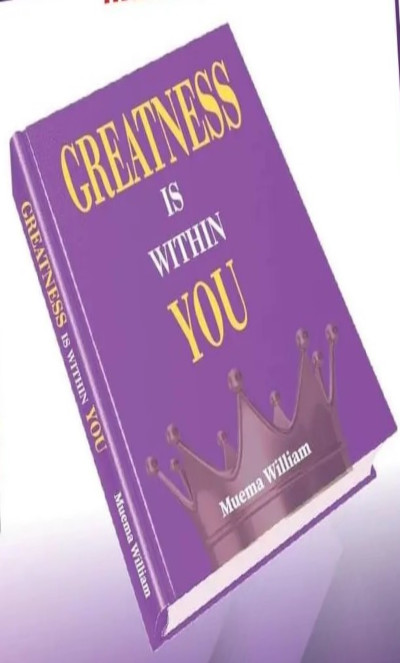
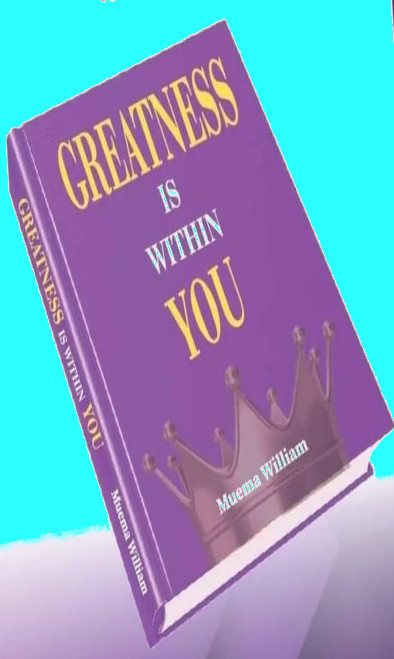
updated changes

diff --git a/src/pages/Gallery.jsx b/src/pages/Gallery.jsx
@@ -1,0 +1,128 @@
+const Gallery = () => {
+    return (
+        <div>
+                  <h1 class="emailTitle">Photos</h1> 
+        <div>
+            <div className='homeAside2'>
+            <figure className='homeImgFigure'>
+                <img 
+                src={`../images/img1.jpg`}
+                alt='home image'
+                className="homeImg"
+            />
+            </figure>
+            </div>
+            <div className='homeAside2 videoHome'>
+            <figure className='homeImgFigure videoFig'>
+                <img 
+                src={`../images/video.png`}
+                alt='home image'
+                className="homeImg videoImg"
+            />
+            </figure>
+            </div>   
+       </div>
+       <div className='row midHome'>
+       <div className='homeAside3'>
+            <figure className='homeImgFigure1'>
+                <img 
+                src={`../images/midHomeImg.png`}
+                alt='home image'
+                className="homeImg1"
+            />
+            </figure>
+            <figure className='homeImgFigure1'>
+                <img 
+                src={`../images/midHomeCopy.png`}
+                alt='home image'
+                className="homeImg1"
+            />
+            </figure>
+            </div>
+            <div className='homeAside4'>
+            <figure className='homeImgFigure2'>
+                <img 
+                src={`../images/img2.jpg`}
+                alt='home image'
+                className="homeImg2"
+            />
+            </figure>
+            </div>  
+       </div>
+       <div>
+            <div className='homeAside2'>
+            <figure className='homeImgFigure'>
+                <img 
+                src={`../images/img3.jpg`}
+                alt='home image'
+                className="homeImg"
+            />
+            </figure>
+            </div>
+            <div className='homeAside2'>
+            <figure className='homeImgFigure'>
+                <img 
+                src={`../images/img4.jpg`}
+                alt='home image'
+                className="homeImg"
+            />
+            </figure>
+            </div>   
+       </div>
+       <div className='homeAside4'>
+            <figure className='homeImgFigure2'>
+                <img 
+                src={`../images/img5.jpg`}
+                alt='home image'
+                className="homeImg2"
+            />
+            </figure>
+            </div>
+            <div className='homeAside3'>
+            <figure className='homeImgFigure1'>
+                <img 
+                src={`../images/midHomeImg.png`}
+                alt='home image'
+                className="homeImg1"
+            />
+            </figure>
+            <figure className='homeImgFigure1'>
+                <img 
+                src={`../images/img6.jpg`}
+                alt='home image'
+                className="homeImg1"
+            />
+            </figure>
+            </div>
+            <div className='row midHome'>
+       <div className='homeAside3'>
+            <figure className='homeImgFigure1'>
+                <img 
+                src={`../images/midHomeImg.png`}
+                alt='home image'
+                className="homeImg1"
+            />
+            </figure>
+            <figure className='homeImgFigure1'>
+                <img 
+                src={`../images/midHomeCopy.png`}
+                alt='home image'
+                className="homeImg1"
+            />
+            </figure>
+            </div>
+            <div className='homeAside4'>
+            <figure className='homeImgFigure2'>
+                <img 
+                src={`../images/img7.jpg`}
+                alt='home image'
+                className="homeImg2"
+            />
+            </figure>
+            </div>  
+       </div>
+     </div>
+    )
+}
+
+export default Gallery;

diff --git a/src/index.css b/src/index.css
@@ -192,9 +192,9 @@ p.share, p.related, p.topic1 {
 }
 .twitter, .facebook, .email {
   display: inline;
-  width: 5%;
-  height: 5%;
-  margin: 5% 0% 0% 5%;
+  width: 7%;
+  height: 7%;
+  margin: 5% 3% 3% 7%;
   padding: 0% 0% 0% 0%;
 }
 .mainContent {
@@ -366,7 +366,6 @@ img {
   height: 100%;
   margin: 2% 0% 0% 5%;
   padding: 2% 2% 3% 2%;
-  border: solid silver 5px;
   border-radius: 10px;
 }
 .cell {
@@ -412,11 +411,14 @@ img {
   width: 68%;
 }
 .send {
-  width: 50%;
-  font-size: 130%;
+  width: 100%;
+  font-size: 180%;
   font-weight: bold;
   margin: 3% 0% 0% 0%;
+  padding: 2% 2% 2% 2%;
   border-radius: 7px;
+  color: black;
+  background-color: silver;
   border: solid silver 5px;
 }
 .gridH {
@@ -596,10 +598,11 @@ img {
 }
 .homeImgFigure1, .homeImgFigure2 {
   width: 100%;
-  margin: 0% 0% 0% 0%;
+  margin: 3% 0% 0% 0%;
   padding: 0% 0% 0% 0%;
   background-color: gold;
   border-radius: 10px;
+  height: 42%;
 }
 .homeImg1, .homeImg2 {
   width: 100%;
@@ -607,7 +610,7 @@ img {
   padding: 0% 0% 0% 0%;
 }
 .homeImg1 {
-  padding: 20px;
+  padding: 5px;
 
 }
 .subscribeTitle {
@@ -915,9 +918,9 @@ img {
   }
   .twitter, .facebook, .email {
     display: inline;
-    width: 5%;
-    height: 5%;
-    margin: 5% 5% 0% 5%;
+    width: 7%;
+    height: 7%;
+    margin: 5% 3% 3% 7%;
     padding: 0% 0% 0% 0%;
   }
   .mainContent {
@@ -1100,7 +1103,6 @@ img {
     position: relative;
     left: 15%;
     padding: 2% 2% 3% 2%;
-    border: solid silver 5px;
     border-radius: 10px;
   }
   .sectionD {
@@ -1156,13 +1158,16 @@ img {
     width: 68%;
   }
   .send {
-    width: 50%;
-    font-size: 130%;
+    width: 100%;
+    font-size: 180%;
     font-weight: bold;
     margin: 3% 0% 0% 0%;
+    padding: 2% 2% 2% 2%;
     border-radius: 7px;
-    border: solid silver 5px;
-  }
+    color: black;
+    background-color: silver;
+    border: solid silver 5px; 
+  }  
   .gridH {
     font-size: 200%;
     font-weight: bold;
@@ -1297,6 +1302,9 @@ img {
     margin: 0% 0% 0% 0%;
     padding: 0% 0% 0% 5%;
   }
+  .videoHome {
+    background-color: cyan;
+  }
   .homeImgFigure {
     width: 100%;
     height: 100%;
@@ -1311,6 +1319,7 @@ img {
     height: 100%;
     margin: 0% 0% 0% 0%;
     padding: 0% 0% 0% 0%;
+    content: url('C:/Users/hp/blog-react/public/images/altHomeImg.jpg');
   }
   .homeAside1, .homeAside2 {
     float: left;
@@ -1347,11 +1356,11 @@ img {
   }
   .homeImgFigure1, .homeImgFigure2 {
     width: 100%;
-    height: 50%;
-    margin: 0% 0% 0% 0%;
+    margin: 3% 0% 0% 0%;
     padding: 0% 0% 0% 0%;
     background-color: gold;
     border-radius: 10px;
+    height: 100%;
   }
   .homeImg1, .homeImg2 {
     width: 100%;

diff --git a/src/pages/Contact.jsx b/src/pages/Contact.jsx
@@ -1,9 +1,11 @@
+import { Link } from "react-router-dom";
+
 function Contact() {
     return (
       <div className="container contactPg col-md-12 col-sm-12 col-xs-12">
  <div className="gridAcontainer col-md-12 col-sm-12 col-xs-12"><h1 class="contactHead">Contact</h1></div>
  <div className="gridBcontainer col-md-12 col-sm-12 col-xs-12">
- <p className="inTouch">Get in touch with me via <a href="">Facebook</a> or 
+ <p className="inTouch">Get in touch with me via <Link to='https://web.facebook.com/muemaT.william'>Facebook</Link> or 
  send me an email.</p>
    <p className="cell">Cell: +254700578163</p>
  </div>
@@ -20,7 +22,7 @@ function Contact() {
               <label className="labels messageLabel" for="">Message:<br />
                   <textarea class="message" name="" id=""></textarea>
               </label><br />
-              <a href="mailTo:nicholasmuthoki@gmail.com"><button className="send">Send</button></a>
+              <Link className="send" to='mailTo:transformationcentretassia@gmail.com'>Send</Link>
       </form>
   </div>
 </div>

diff --git a/src/components/Header.jsx b/src/components/Header.jsx
@@ -32,6 +32,9 @@ const Header = () => {
                 <li className="menuItem">
                   <Link to="/contact">Contact</Link>
                 </li>
+                <li className="menuItem">
+                  <Link to="/gallery">Gallery</Link>
+                </li>
               </ul>
             )}
           </li>
@@ -46,8 +49,8 @@ const Header = () => {
                 <section className="date col-lg-12 col-md-12 col-sm-12 col-xs-12">
                     <span className='socials'>
     <img className="twitter" src="../images/twitter1.png" alt="" />
-    <img className="facebook" src="../images/facebook1.png" alt="" />
-    <img className="email" src="../images/email1.png" alt="" />
+    <Link to='https://web.facebook.com/muemaT.william'><img className="facebook" src="../images/facebook1.png" alt="" /></Link>
+    <Link to='mailTo:transformationcentretassia@gmail.com'><img className="email" src="../images/email1.png" alt="" /></Link>
 </span>
                 </section>
   </div>

diff --git a/src/App.jsx b/src/App.jsx
@@ -6,6 +6,8 @@ import Home from "./pages/Home";
 import About from "./pages/About";
 import Contact from "./pages/Contact";
 import Footer from "./components/Footer";
+import Gallery from "./pages/Gallery"
+
 
 function App() {
   return (
@@ -16,6 +18,7 @@ function App() {
         <Route path="/articles" element={<AllPosts />} />
         <Route path="/about" element={<About />} />
         <Route path="/contact" element={<Contact />} />
+        <Route path="/gallery" element={<Gallery />} />
         <Route path="/post/:documentId" element={<PostPage />} /> {/* ✅ Updated to use documentId */}
       </Routes>
       <Footer />

diff --git a/src/pages/Home.jsx b/src/pages/Home.jsx
@@ -44,6 +44,13 @@ const Home = () => {
                     className="homeImg1"
                 />
                 </figure>
+                <figure className='homeImgFigure1'>
+                    <img 
+                    src={`../images/midHomeCopy.png`}
+                    alt='home image'
+                    className="homeImg1"
+                />
+                </figure>
                 </div>
                 <div className='homeAside4'>
             <h4 className='midHomeTitle2'>Books</h4>

diff --git a/index.html b/index.html
@@ -3,7 +3,7 @@
   <head>
     <meta charset="UTF-8" />
     <meta name="viewport" content="width=device-width, initial-scale=1.0" />
-    <title>Vite + React</title>
+    <title>Transformation mindset</title>
     <link rel="stylesheet" href="bootstrap-4.0.0-dist/css/bootstrap-grid.min.css">
     <link rel="stylesheet" href="bootstrap-4.0.0-dist/css/bootstrap.css">
   </head>
